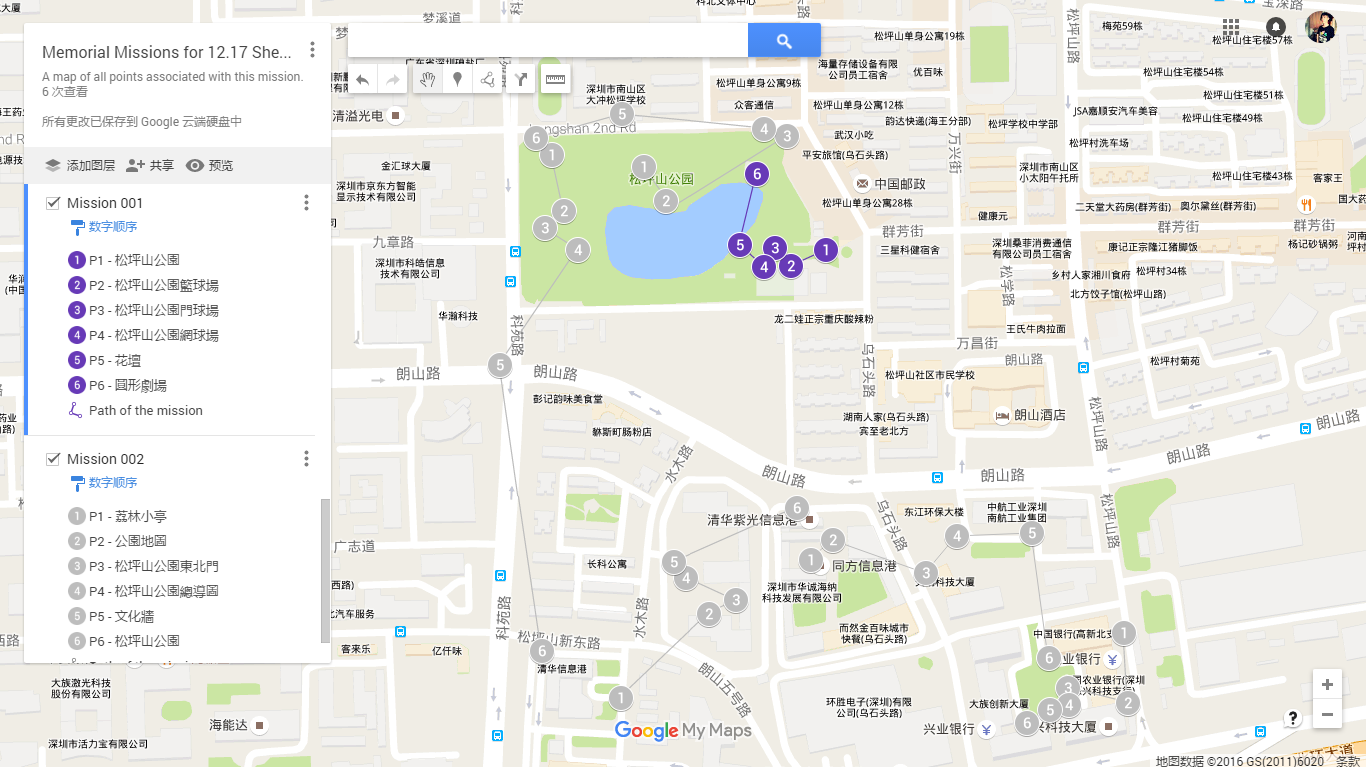
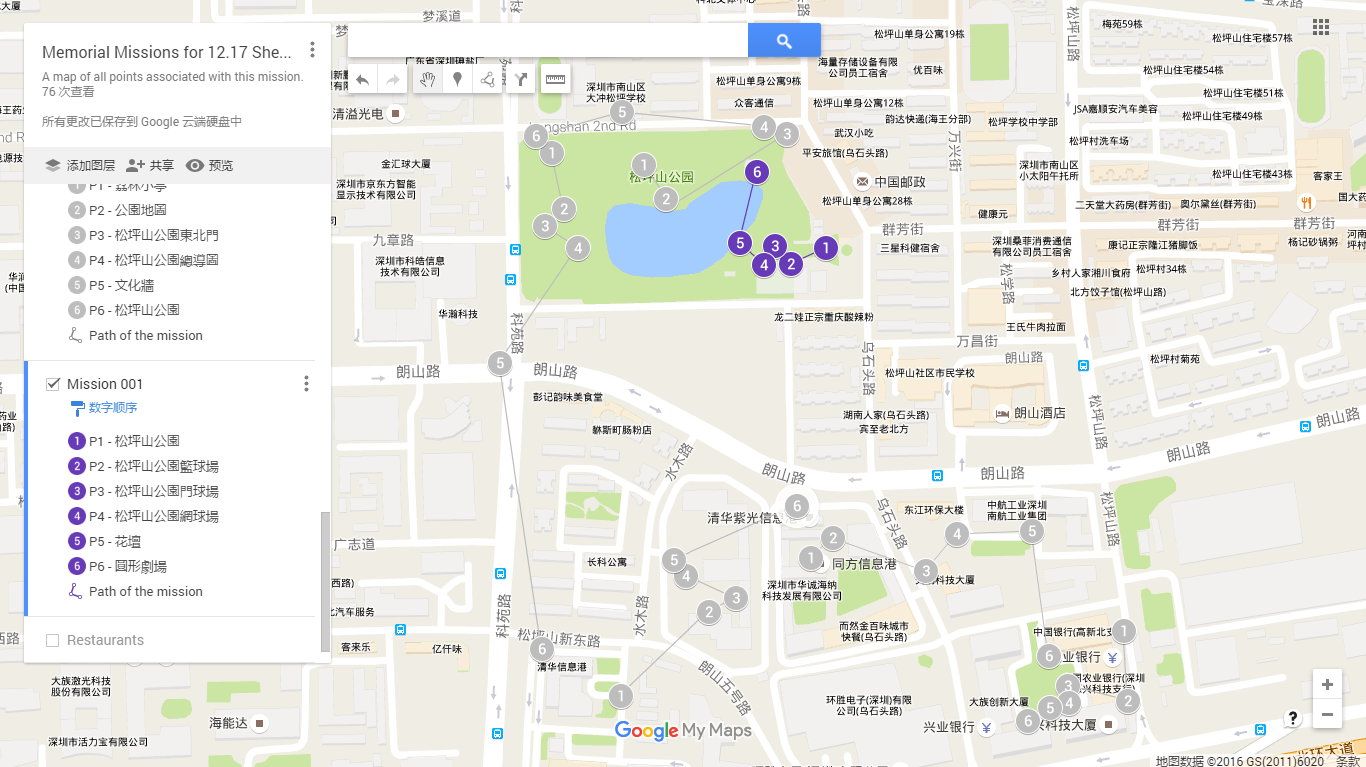
update
Former-commit-id: 051038ef65889c7dbc0b29ee576fca3a1192ffbf
Former-commit-id: 20d9527d4d784726f2edbdc0810aae7c6aed72c3

diff --git a/post/1217_mission_of_shenzhen/1217_mission_of_shenzhen.md b/post/1217_mission_of_shenzhen/1217_mission_of_shenzhen.md
@@ -53,21 +53,53 @@ The task has been divided into 6 small one (more details in [Google map](https:/
 
 #### Memorial Missions for 12.17 Shenzhen - 001
 
+1. 松坪山公園
+2. 松坪山公園籃球場
+3. 松坪山公園門球場
+4. 松坪山公園網球場
+5. 花壇
+6. 圓形劇場
+
 [![](./task1.png)](https://raw.githubusercontent.com/aleen42/PersonalWiki/master/post/1217_mission_of_shenzhen/task1.png)
 
 #### Memorial Missions for 12.17 Shenzhen - 002
+
+1. 荔林小亭
+2. 公園地圖
+3. 松坪山公園東北門
+4. 松坪山公園總導圖
+5. 文化牆
+6. 松坪山公園
 
 [![](./task2.png)]((https://raw.githubusercontent.com/aleen42/PersonalWiki/master/post/1217_mission_of_shenzhen/task2.png)
 
 #### Memorial Missions for 12.17 Shenzhen - 003
 
+1. 導遊
+2. 松坪山兒童遊樂場
+3. 馬賽克長蛇
+4. 羽毛球場
+5. 華瀚科技園
+6. 清華信息港石碑
+
 [![](./task3.png)](https://raw.githubusercontent.com/aleen42/PersonalWiki/master/post/1217_mission_of_shenzhen/task3.png)
 
 #### Memorial Missions for 12.17 Shenzhen - 004
 
+1. 清華信息港
+2. 光韻達獅子
+3. 紫光信息港噴泉
+4. 紫光信息港柱子廣場
+5. 清華紫光園區平面圖
+6. 同方信息港噴泉
+
 [![](./task4.png)](https://raw.githubusercontent.com/aleen42/PersonalWiki/master/post/1217_mission_of_shenzhen/task4.png)
 
 #### Memorial Missions for 12.17 Shenzhen - 005
+
+1. 巨大如意
+2. 同方信息港水幕
+3.
 
 [![](./task5.png)](https://raw.githubusercontent.com/aleen42/PersonalWiki/master/post/1217_mission_of_shenzhen/task5.png)
 
